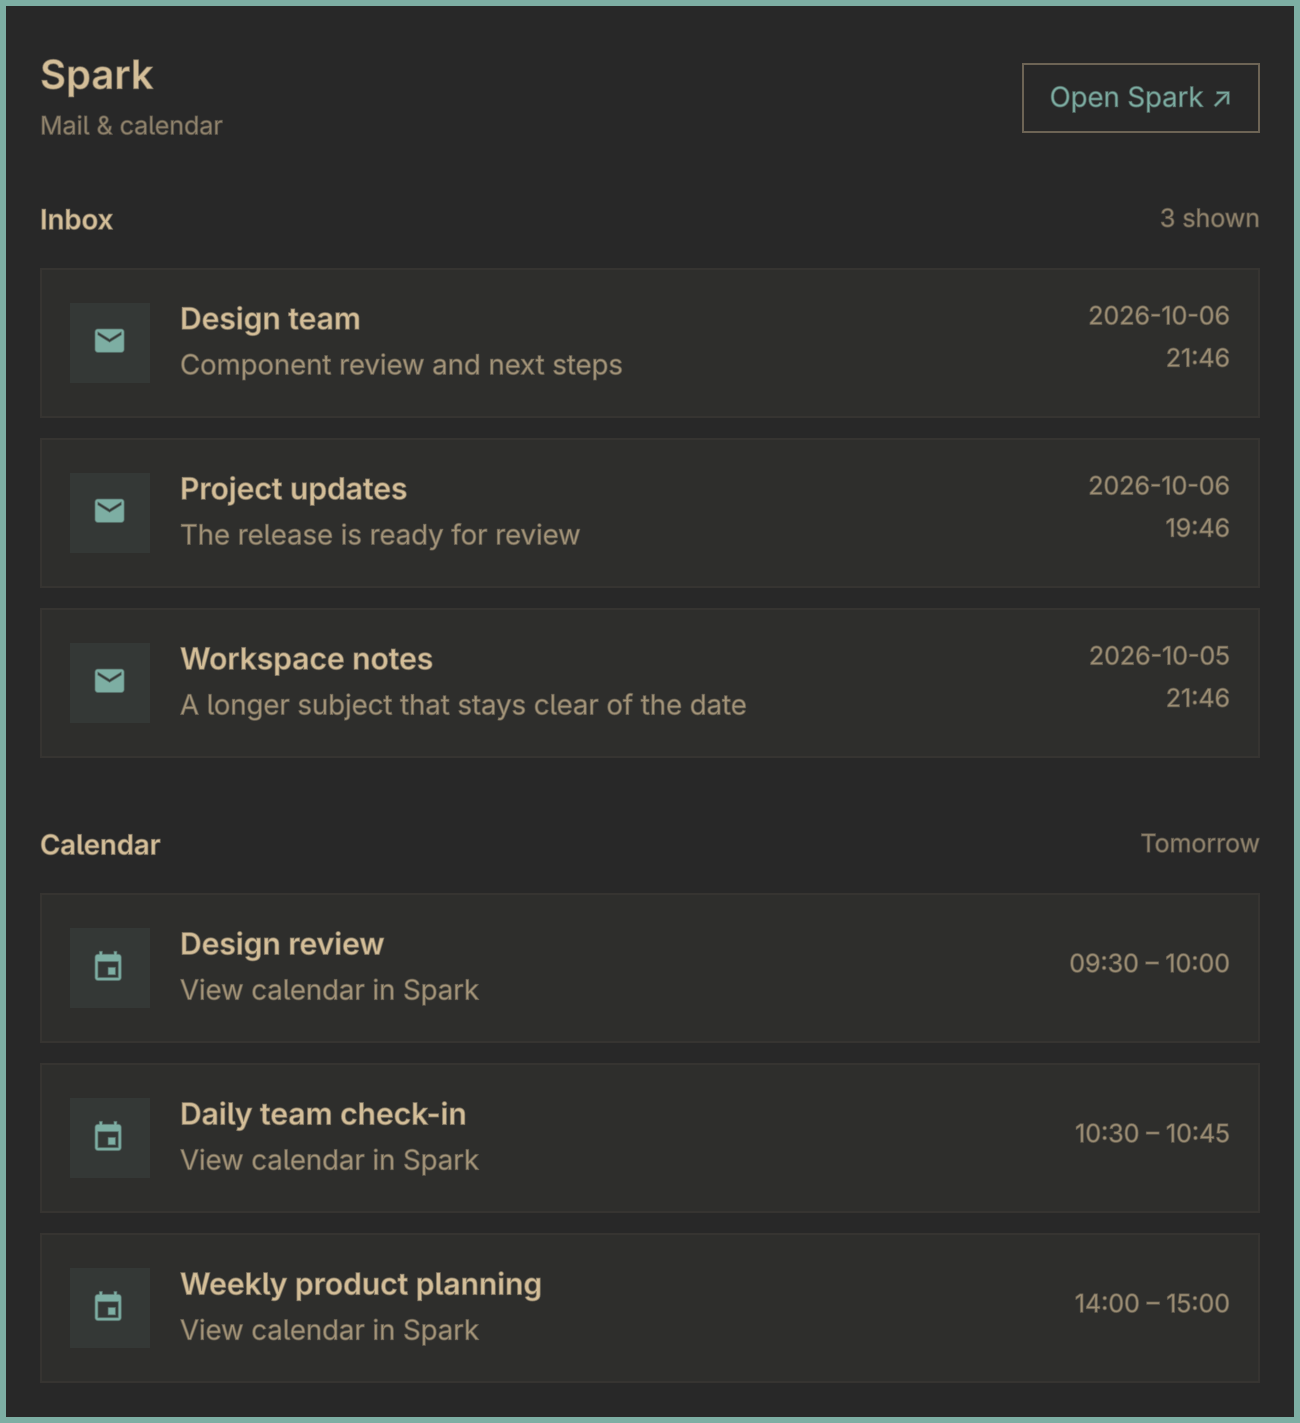
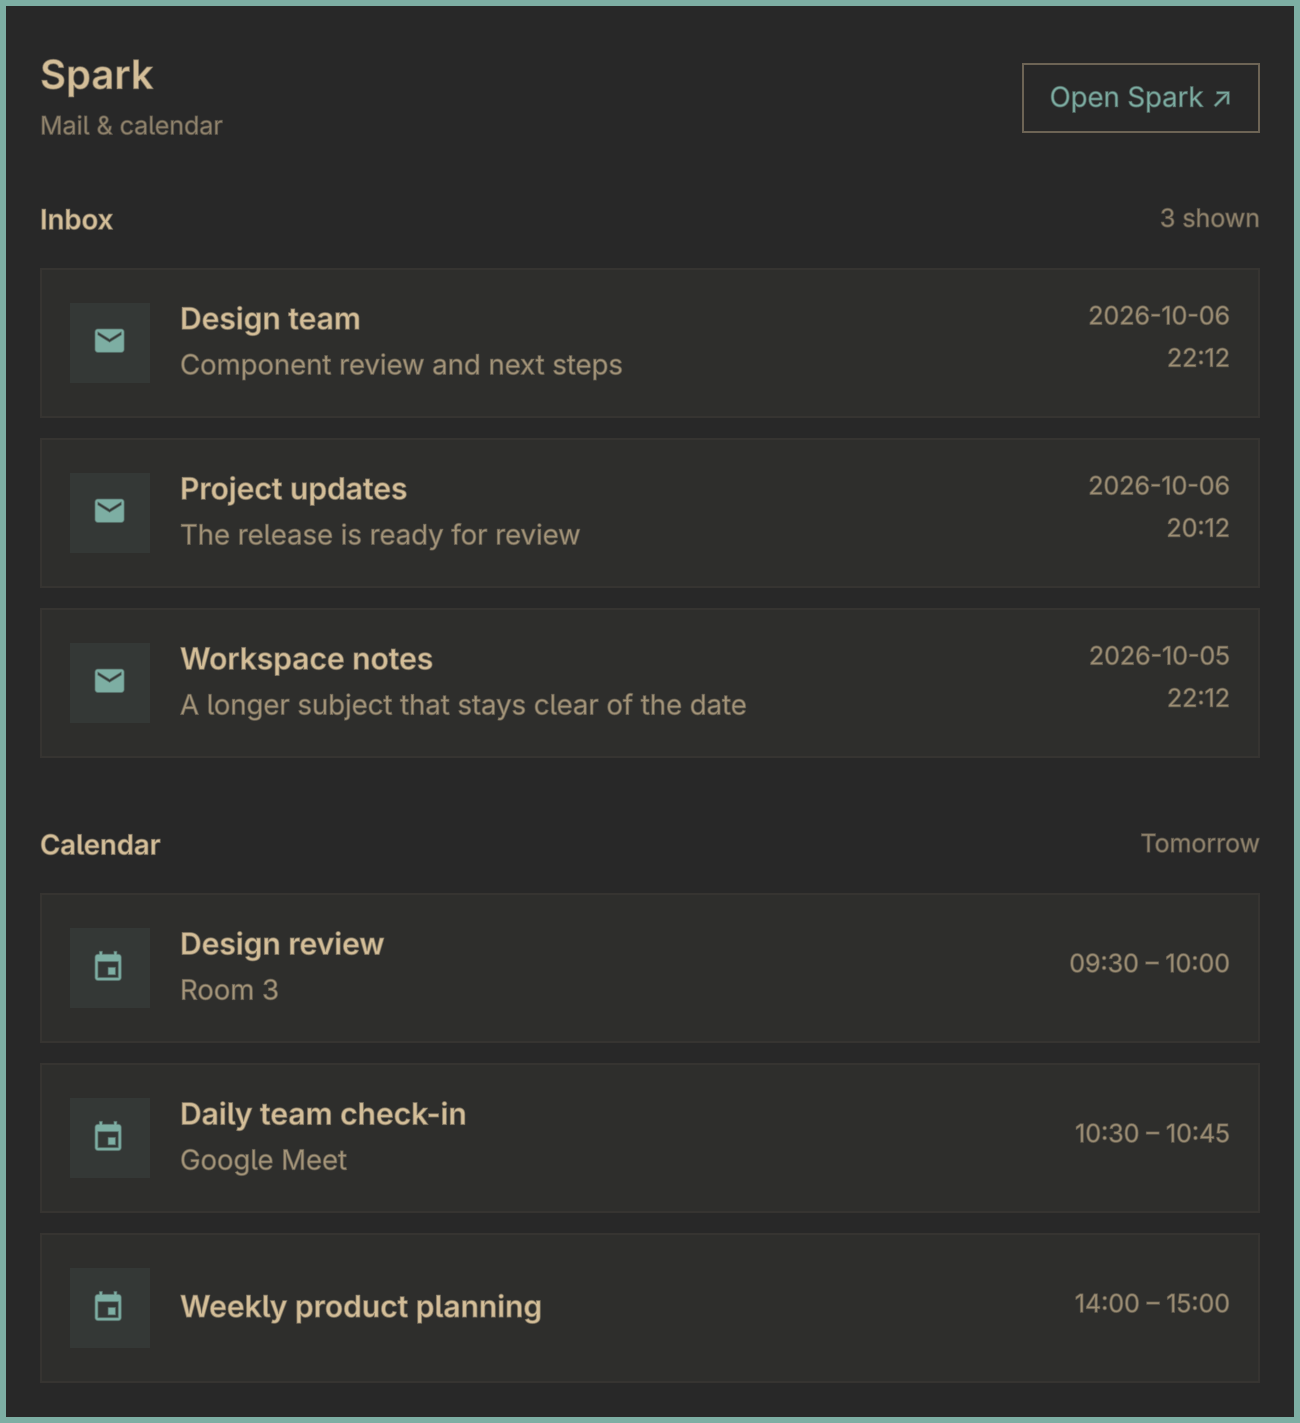
Show event locations in the Omarchy calendar

diff --git a/integrations/omarchy/BarWidget.qml b/integrations/omarchy/BarWidget.qml
@@ -214,6 +214,7 @@ Panel {
       Text {
         width: parent.width
         text: card.detailText
+        visible: text.length > 0
         textFormat: Text.PlainText
         elide: Text.ElideRight
         color: Util.alpha(card.foreground, 0.72)
@@ -425,7 +426,7 @@ Panel {
               required property var modelData
               width: content.width
               titleText: modelData.title
-              detailText: "View calendar in Spark"
+              detailText: modelData.location || ""
               metadataText: modelData.time
               iconText: ""
               tooltipText: "Open calendar in Spark"

diff --git a/integrations/omarchy/helper.py b/integrations/omarchy/helper.py
@@ -55,6 +55,26 @@ def parse_emails(output):
         raise ValueError('Unsupported email output') from None
 
 
+def event_location(row):
+    """Show the stated location or the conference provider."""
+    location = row.get('location')
+    location = location.strip() if isinstance(location, str) else ''
+    conference = row.get('conference_url')
+    candidate = location or (conference.strip() if isinstance(conference, str) else '')
+    try:
+        url = urlsplit(candidate)
+        host = url.hostname if url.scheme in {'http', 'https'} else None
+    except ValueError:
+        host = None
+    if host:
+        for domain, label in (('meet.google.com', 'Google Meet'), ('zoom.us', 'Zoom'),
+                              ('teams.microsoft.com', 'Microsoft Teams'), ('teams.live.com', 'Microsoft Teams')):
+            if host == domain or host.endswith('.' + domain):
+                return label
+        return location or 'Online meeting'
+    return location
+
+
 def parse_events(output):
     """Use one calendar model for the popup, indicator, and reminders."""
     try:
@@ -79,7 +99,8 @@ def parse_events(output):
                 start_ms = int(start.timestamp() * 1000)
                 time_label = f'{start:%H:%M} – {end:%H:%M}'
             events.append({'id': row['id'], 'title': row['title'] or 'Untitled event',
-                           'day': day.isoformat(), 'time': time_label, 'start_ms': start_ms})
+                           'day': day.isoformat(), 'time': time_label, 'start_ms': start_ms,
+                           'location': event_location(row)})
         return sorted(events, key=lambda event: (event['day'], event['start_ms'] or 0))
     except (KeyError, TypeError, ValueError):
         raise ValueError('Unsupported calendar output') from None
@@ -150,7 +171,7 @@ def calendar_view(status, rows, today):
     first = date.fromisoformat(max(rows[0]['day'], today.isoformat()))
     result['label'] = ('Today' if first == today else 'Tomorrow' if first == today + timedelta(days=1)
                        else f'{first:%A, %b} {first.day}')
-    result['events'] = [{'title': row['title'], 'time': row['time']} for row in rows
+    result['events'] = [{'title': row['title'], 'time': row['time'], 'location': row['location']} for row in rows
                         if max(row['day'], today.isoformat()) == first.isoformat()]
     result['start_times'] = [row['start_ms'] for row in rows if row['start_ms'] is not None]
     return result

diff --git a/integrations/omarchy/test_helper.py b/integrations/omarchy/test_helper.py
@@ -65,8 +65,23 @@ class CalendarTests(unittest.TestCase):
 
     def test_all_day_events_remain_visible_without_alert_times(self):
         result = self.view(dict(event(), all_day=True, start='2026-10-06'))
-        self.assertEqual(result['events'], [{'title': 'Design review', 'time': 'All day'}])
+        self.assertEqual(result['events'], [{'title': 'Design review', 'time': 'All day', 'location': ''}])
         self.assertEqual(result['start_times'], [])
+
+    def test_event_location_reaches_the_popup(self):
+        cases = [({'location': ' Room 3 '}, 'Room 3'),
+                 ({'location': '42 Example Street', 'conference_url': 'https://meet.google.com/abc'}, '42 Example Street'),
+                 ({'conference_url': 'https://meet.google.com/abc'}, 'Google Meet'),
+                 ({'location': 'https://us02web.zoom.us/j/123'}, 'Zoom'),
+                 ({'conference_url': 'https://teams.microsoft.com/l/meetup-join/123'}, 'Microsoft Teams'),
+                 ({'conference_url': 'https://video.example.test/123'}, 'Online meeting'),
+                 ({'conference_url': 'https://meet.google.com.example.test/123'}, 'Online meeting'),
+                 ({'location': None}, ''), ({'location': 123}, ''),
+                 ({'conference_url': 'https://[invalid'}, ''), ({}, '')]
+        for metadata, expected in cases:
+            with self.subTest(metadata=metadata):
+                result = self.view(event(**metadata))
+                self.assertEqual(result['events'][0]['location'], expected)
 
     def test_all_day_utc_midnight_is_grouped_by_local_date(self):
         rows = [event(title='Thursday meeting', start='2026-10-08T15:00:00+02:00',

diff --git a/integrations/omarchy/preview/mock_helper.py b/integrations/omarchy/preview/mock_helper.py
@@ -13,9 +13,9 @@ emails = [
      'date': (now - timedelta(days=1)).strftime('%Y-%m-%d %H:%M')},
 ]
 events = [
-    {'title': 'Design review', 'time': '09:30 – 10:00'},
-    {'title': 'Daily team check-in', 'time': '10:30 – 10:45'},
-    {'title': 'Weekly product planning', 'time': '14:00 – 15:00'},
+    {'title': 'Design review', 'time': '09:30 – 10:00', 'location': 'Room 3'},
+    {'title': 'Daily team check-in', 'time': '10:30 – 10:45', 'location': 'Google Meet'},
+    {'title': 'Weekly product planning', 'time': '14:00 – 15:00', 'location': ''},
 ]
 print(json.dumps({'status': 'Inbox', 'emails': emails, 'events': events,
                   'events_label': 'Tomorrow', 'events_status': '',

diff --git a/integrations/omarchy/README.md b/integrations/omarchy/README.md
@@ -21,7 +21,7 @@ Date-only all-day events keep their stated date.
 The calendar badge does not change the mail indicator.
 
 The popup shows the inbox above a calendar section.
-Emails and events share one card layout, with an icon, two text lines, and date or time metadata.
+Emails and events share one card layout, with an icon, a title, an optional second line, and date or time metadata.
 The header stays visible when the lists scroll.
 
 The popup fits its content up to 80% of the screen height, while respecting the bar and screen margins.
@@ -29,7 +29,10 @@ If the content exceeds that limit, the popup scrolls.
 The scroll bar appears only when the content exceeds the viewport.
 
 The calendar section title reads **Today**, **Tomorrow**, or the day of the first day with events.
-Each event card shows the title, time range, and calendar action as plain text.
+Each event card shows the title, time range, and location as plain text.
+Conference links show the provider name when the location contains no other text.
+If an event has no location or conference link, the card hides the second line.
+The tooltip reads **Open calendar in Spark**.
 The popup shows each sender, subject, and date as plain text.
 
 The plugin reads full email metadata through CLI JSON and elides long text only for display.
